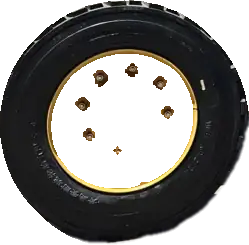
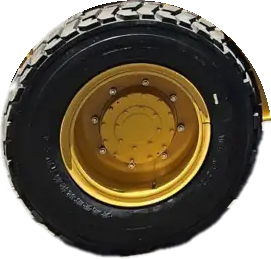
Recut the loader by hand so each piece is only its part.
Wheels are full circles with the rims, the cab includes the glass and door, the bucket stops before the front tire, and the engine is the chassis left over.

diff --git a/bernie/loader/loader.js b/bernie/loader/loader.js
@@ -4,12 +4,12 @@
   var BOARD = { w: 1000, h: 618 };
   /* Exclusive crops of ghost.webp. Together they rebuild it with no overlap. */
   var PARTS = [
-    { id: "rear-wheel", name: "Rear wheel", src: "img/rear-wheel.webp", x: 691, y: 335, w: 219, h: 217, group: "body" },
-    { id: "front-wheel", name: "Front wheel", src: "img/front-wheel.webp", x: 176, y: 368, w: 249, h: 245, group: "body" },
-    { id: "engine", name: "Engine", src: "img/engine.webp", x: 225, y: 39, w: 769, h: 517, group: "body" },
-    { id: "cab", name: "Cab", src: "img/cab.webp", x: 451, y: 5, w: 269, h: 151, group: "body" },
-    { id: "arms", name: "Lift arms", src: "img/arms.webp", x: 112, y: 57, w: 413, h: 268, group: "arms" },
-    { id: "bucket", name: "Bucket", src: "img/bucket.webp", x: 5, y: 214, w: 295, h: 397, group: "bucket" }
+    { id: "rear-wheel", name: "Rear wheel", src: "img/rear-wheel.webp", x: 671, y: 315, w: 252, h: 237, group: "body" },
+    { id: "front-wheel", name: "Front wheel", src: "img/front-wheel.webp", x: 163, y: 354, w: 271, h: 259, group: "body" },
+    { id: "engine", name: "Engine", src: "img/engine.webp", x: 111, y: 7, w: 883, h: 534, group: "body" },
+    { id: "cab", name: "Cab", src: "img/cab.webp", x: 472, y: 5, w: 289, h: 251, group: "body" },
+    { id: "arms", name: "Lift arms", src: "img/arms.webp", x: 103, y: 170, w: 443, h: 196, group: "arms" },
+    { id: "bucket", name: "Bucket", src: "img/bucket.webp", x: 5, y: 214, w: 185, h: 306, group: "bucket" }
   ];
   /* Boom pin on the chassis. The bucket sits left and below it, so a positive
      turn lifts the arms and the bucket. */
